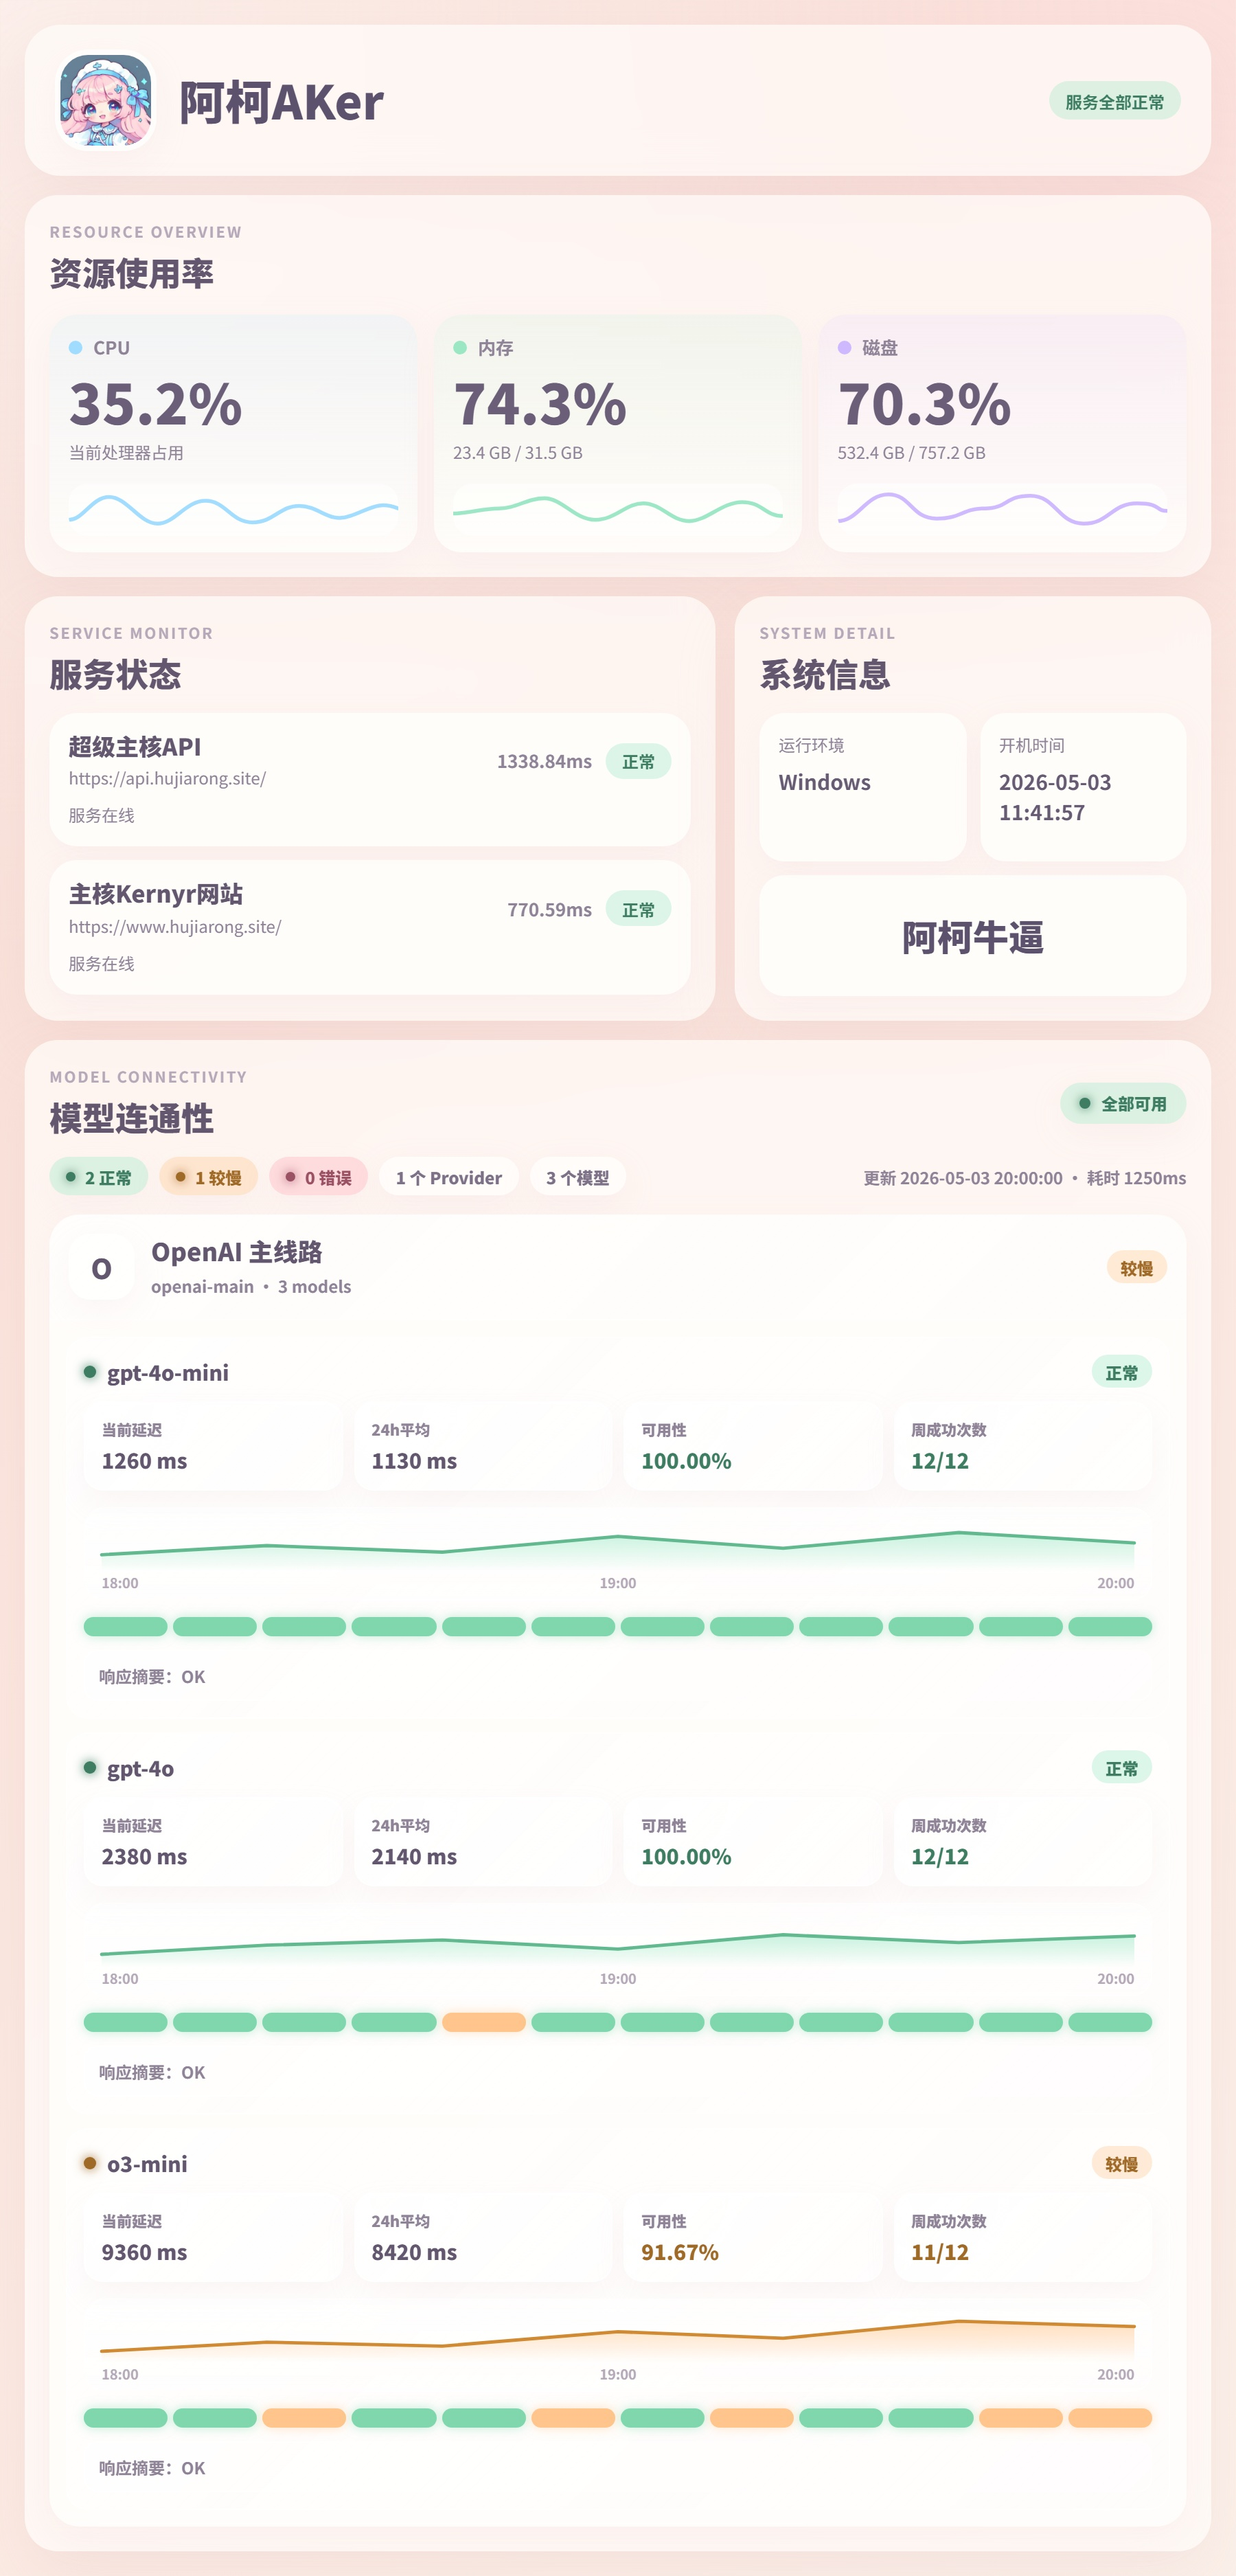
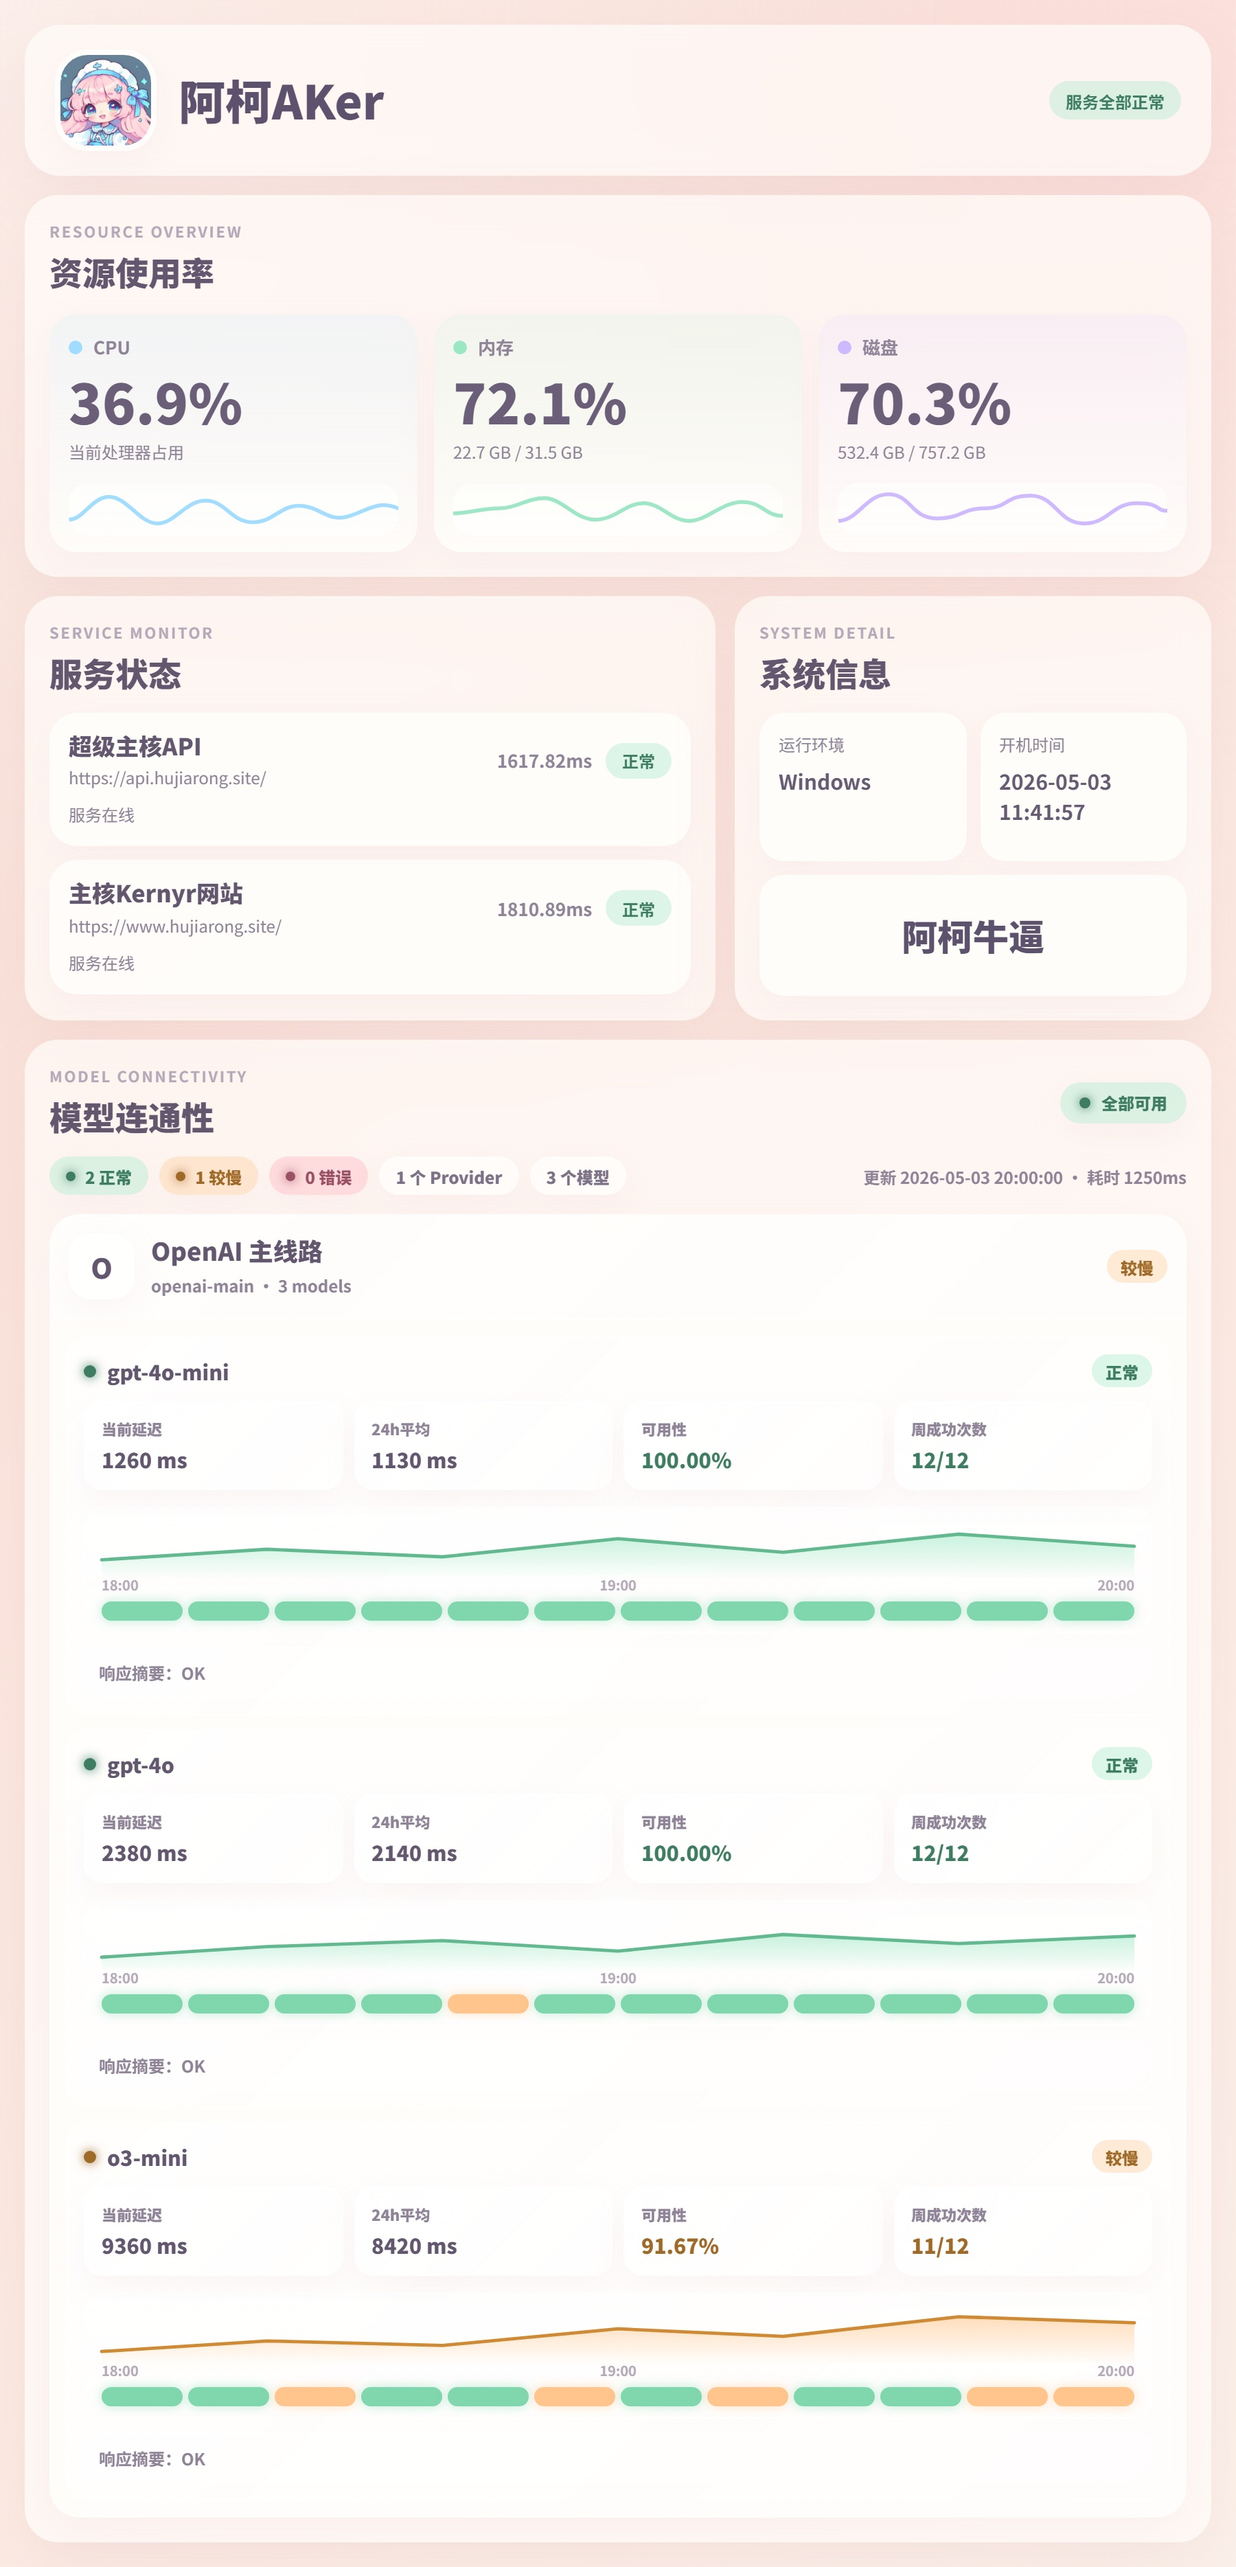
fix(ui): 调整模型历史记录布局并更新样式
重构模型历史记录的HTML结构，将其移动到标签容器内，并更新CSS样式使用grid布局
调整模型曲线盒子的高度和内部间距，优化显示效果

diff --git a/output_test.html b/output_test.html
@@ -761,7 +761,7 @@ body {
 .model-curve-box {
 	position: relative;
 	margin-top: 12px;
-	height: 68px;
+	height: 92px;
 	border-radius: 15px;
 	background: linear-gradient(180deg, rgba(255, 255, 255, 0.62), rgba(255, 255, 255, 0.28));
 	border: 1px solid rgba(255, 255, 255, 0.54);
@@ -770,9 +770,9 @@ body {
 
 .model-curve {
 	position: absolute;
-	inset: 8px 12px 20px;
+	inset: 8px 12px 34px;
 	width: calc(100% - 24px);
-	height: 38px;
+	height: 44px;
 	overflow: visible;
 }
 
@@ -816,7 +816,7 @@ body {
 	position: absolute;
 	left: 12px;
 	right: 12px;
-	bottom: 5px;
+	bottom: 27px;
 	display: flex;
 	align-items: center;
 	justify-content: space-between;
@@ -826,16 +826,22 @@ body {
 }
 
 .model-history {
-	display: flex;
+	position: absolute;
+	left: 12px;
+	right: 12px;
+	bottom: 8px;
+	display: grid;
+	grid-auto-flow: column;
+	grid-auto-columns: minmax(0, 1fr);
 	align-items: stretch;
 	gap: 4px;
-	margin-top: 12px;
 	height: 14px;
 }
 
 .model-history-bar {
-	flex: 1 1 0;
-	min-width: 4px;
+	display: block;
+	width: 100%;
+	min-width: 0;
 	border-radius: 999px;
 	background: rgba(255, 255, 255, 0.62);
 }
@@ -921,7 +927,7 @@ html,body{margin:0;padding:0;width:900px;}
         <div class="meter-dot meter-dot-cyan"></div>
         <div class="meter-name">CPU</div>
       </div>
-      <div class="meter-value">35.2%</div>
+      <div class="meter-value">36.9%</div>
       <div class="meter-detail">当前处理器占用</div>
       <div class="meter-wave meter-wave-cyan meter-wave-1"></div>
     </div>
@@ -931,8 +937,8 @@ html,body{margin:0;padding:0;width:900px;}
         <div class="meter-dot meter-dot-mint"></div>
         <div class="meter-name">内存</div>
       </div>
-      <div class="meter-value">74.3%</div>
-      <div class="meter-detail">23.4 GB / 31.5 GB</div>
+      <div class="meter-value">72.1%</div>
+      <div class="meter-detail">22.7 GB / 31.5 GB</div>
       <div class="meter-wave meter-wave-mint meter-wave-2"></div>
     </div>
     
@@ -967,7 +973,7 @@ html,body{margin:0;padding:0;width:900px;}
             <div class="service-target">https://api.hujiarong.site/</div>
           </div>
           <div class="service-meta">
-            <div class="service-latency">1338.84ms</div>
+            <div class="service-latency">1617.82ms</div>
             <span class="service-badge badge-green">正常</span>
           </div>
         </div>
@@ -983,7 +989,7 @@ html,body{margin:0;padding:0;width:900px;}
             <div class="service-target">https://www.hujiarong.site/</div>
           </div>
           <div class="service-meta">
-            <div class="service-latency">770.59ms</div>
+            <div class="service-latency">1810.89ms</div>
             <span class="service-badge badge-green">正常</span>
           </div>
         </div>
@@ -1115,34 +1121,33 @@ html,body{margin:0;padding:0;width:900px;}
               <span>20:00</span>
               
             </div>
-          </div>
-
-          <div class="model-history" title="最近 12 次检测">
-            
-            <span class="model-history-bar model-history-ok"></span>
-            
-            <span class="model-history-bar model-history-ok"></span>
-            
-            <span class="model-history-bar model-history-ok"></span>
-            
-            <span class="model-history-bar model-history-ok"></span>
-            
-            <span class="model-history-bar model-history-ok"></span>
-            
-            <span class="model-history-bar model-history-ok"></span>
-            
-            <span class="model-history-bar model-history-ok"></span>
-            
-            <span class="model-history-bar model-history-ok"></span>
-            
-            <span class="model-history-bar model-history-ok"></span>
-            
-            <span class="model-history-bar model-history-ok"></span>
-            
-            <span class="model-history-bar model-history-ok"></span>
-            
-            <span class="model-history-bar model-history-ok"></span>
-            
+            <div class="model-history" title="最近 12 次检测">
+              
+              <span class="model-history-bar model-history-ok"></span>
+              
+              <span class="model-history-bar model-history-ok"></span>
+              
+              <span class="model-history-bar model-history-ok"></span>
+              
+              <span class="model-history-bar model-history-ok"></span>
+              
+              <span class="model-history-bar model-history-ok"></span>
+              
+              <span class="model-history-bar model-history-ok"></span>
+              
+              <span class="model-history-bar model-history-ok"></span>
+              
+              <span class="model-history-bar model-history-ok"></span>
+              
+              <span class="model-history-bar model-history-ok"></span>
+              
+              <span class="model-history-bar model-history-ok"></span>
+              
+              <span class="model-history-bar model-history-ok"></span>
+              
+              <span class="model-history-bar model-history-ok"></span>
+              
+            </div>
           </div>
 
           
@@ -1192,34 +1197,33 @@ html,body{margin:0;padding:0;width:900px;}
               <span>20:00</span>
               
             </div>
-          </div>
-
-          <div class="model-history" title="最近 12 次检测">
-            
-            <span class="model-history-bar model-history-ok"></span>
-            
-            <span class="model-history-bar model-history-ok"></span>
-            
-            <span class="model-history-bar model-history-ok"></span>
-            
-            <span class="model-history-bar model-history-ok"></span>
-            
-            <span class="model-history-bar model-history-slow"></span>
-            
-            <span class="model-history-bar model-history-ok"></span>
-            
-            <span class="model-history-bar model-history-ok"></span>
-            
-            <span class="model-history-bar model-history-ok"></span>
-            
-            <span class="model-history-bar model-history-ok"></span>
-            
-            <span class="model-history-bar model-history-ok"></span>
-            
-            <span class="model-history-bar model-history-ok"></span>
-            
-            <span class="model-history-bar model-history-ok"></span>
-            
+            <div class="model-history" title="最近 12 次检测">
+              
+              <span class="model-history-bar model-history-ok"></span>
+              
+              <span class="model-history-bar model-history-ok"></span>
+              
+              <span class="model-history-bar model-history-ok"></span>
+              
+              <span class="model-history-bar model-history-ok"></span>
+              
+              <span class="model-history-bar model-history-slow"></span>
+              
+              <span class="model-history-bar model-history-ok"></span>
+              
+              <span class="model-history-bar model-history-ok"></span>
+              
+              <span class="model-history-bar model-history-ok"></span>
+              
+              <span class="model-history-bar model-history-ok"></span>
+              
+              <span class="model-history-bar model-history-ok"></span>
+              
+              <span class="model-history-bar model-history-ok"></span>
+              
+              <span class="model-history-bar model-history-ok"></span>
+              
+            </div>
           </div>
 
           
@@ -1269,34 +1273,33 @@ html,body{margin:0;padding:0;width:900px;}
               <span>20:00</span>
               
             </div>
-          </div>
-
-          <div class="model-history" title="最近 12 次检测">
-            
-            <span class="model-history-bar model-history-ok"></span>
-            
-            <span class="model-history-bar model-history-ok"></span>
-            
-            <span class="model-history-bar model-history-slow"></span>
-            
-            <span class="model-history-bar model-history-ok"></span>
-            
-            <span class="model-history-bar model-history-ok"></span>
-            
-            <span class="model-history-bar model-history-slow"></span>
-            
-            <span class="model-history-bar model-history-ok"></span>
-            
-            <span class="model-history-bar model-history-slow"></span>
-            
-            <span class="model-history-bar model-history-ok"></span>
-            
-            <span class="model-history-bar model-history-ok"></span>
-            
-            <span class="model-history-bar model-history-slow"></span>
-            
-            <span class="model-history-bar model-history-slow"></span>
-            
+            <div class="model-history" title="最近 12 次检测">
+              
+              <span class="model-history-bar model-history-ok"></span>
+              
+              <span class="model-history-bar model-history-ok"></span>
+              
+              <span class="model-history-bar model-history-slow"></span>
+              
+              <span class="model-history-bar model-history-ok"></span>
+              
+              <span class="model-history-bar model-history-ok"></span>
+              
+              <span class="model-history-bar model-history-slow"></span>
+              
+              <span class="model-history-bar model-history-ok"></span>
+              
+              <span class="model-history-bar model-history-slow"></span>
+              
+              <span class="model-history-bar model-history-ok"></span>
+              
+              <span class="model-history-bar model-history-ok"></span>
+              
+              <span class="model-history-bar model-history-slow"></span>
+              
+              <span class="model-history-bar model-history-slow"></span>
+              
+            </div>
           </div>
 
           

diff --git a/resources/index.css b/resources/index.css
@@ -743,7 +743,7 @@ body {
 .model-curve-box {
 	position: relative;
 	margin-top: 12px;
-	height: 68px;
+	height: 92px;
 	border-radius: 15px;
 	background: linear-gradient(180deg, rgba(255, 255, 255, 0.62), rgba(255, 255, 255, 0.28));
 	border: 1px solid rgba(255, 255, 255, 0.54);
@@ -752,9 +752,9 @@ body {
 
 .model-curve {
 	position: absolute;
-	inset: 8px 12px 20px;
+	inset: 8px 12px 34px;
 	width: calc(100% - 24px);
-	height: 38px;
+	height: 44px;
 	overflow: visible;
 }
 
@@ -798,7 +798,7 @@ body {
 	position: absolute;
 	left: 12px;
 	right: 12px;
-	bottom: 5px;
+	bottom: 27px;
 	display: flex;
 	align-items: center;
 	justify-content: space-between;
@@ -808,16 +808,22 @@ body {
 }
 
 .model-history {
-	display: flex;
+	position: absolute;
+	left: 12px;
+	right: 12px;
+	bottom: 8px;
+	display: grid;
+	grid-auto-flow: column;
+	grid-auto-columns: minmax(0, 1fr);
 	align-items: stretch;
 	gap: 4px;
-	margin-top: 12px;
 	height: 14px;
 }
 
 .model-history-bar {
-	flex: 1 1 0;
-	min-width: 4px;
+	display: block;
+	width: 100%;
+	min-width: 0;
 	border-radius: 999px;
 	background: rgba(255, 255, 255, 0.62);
 }
